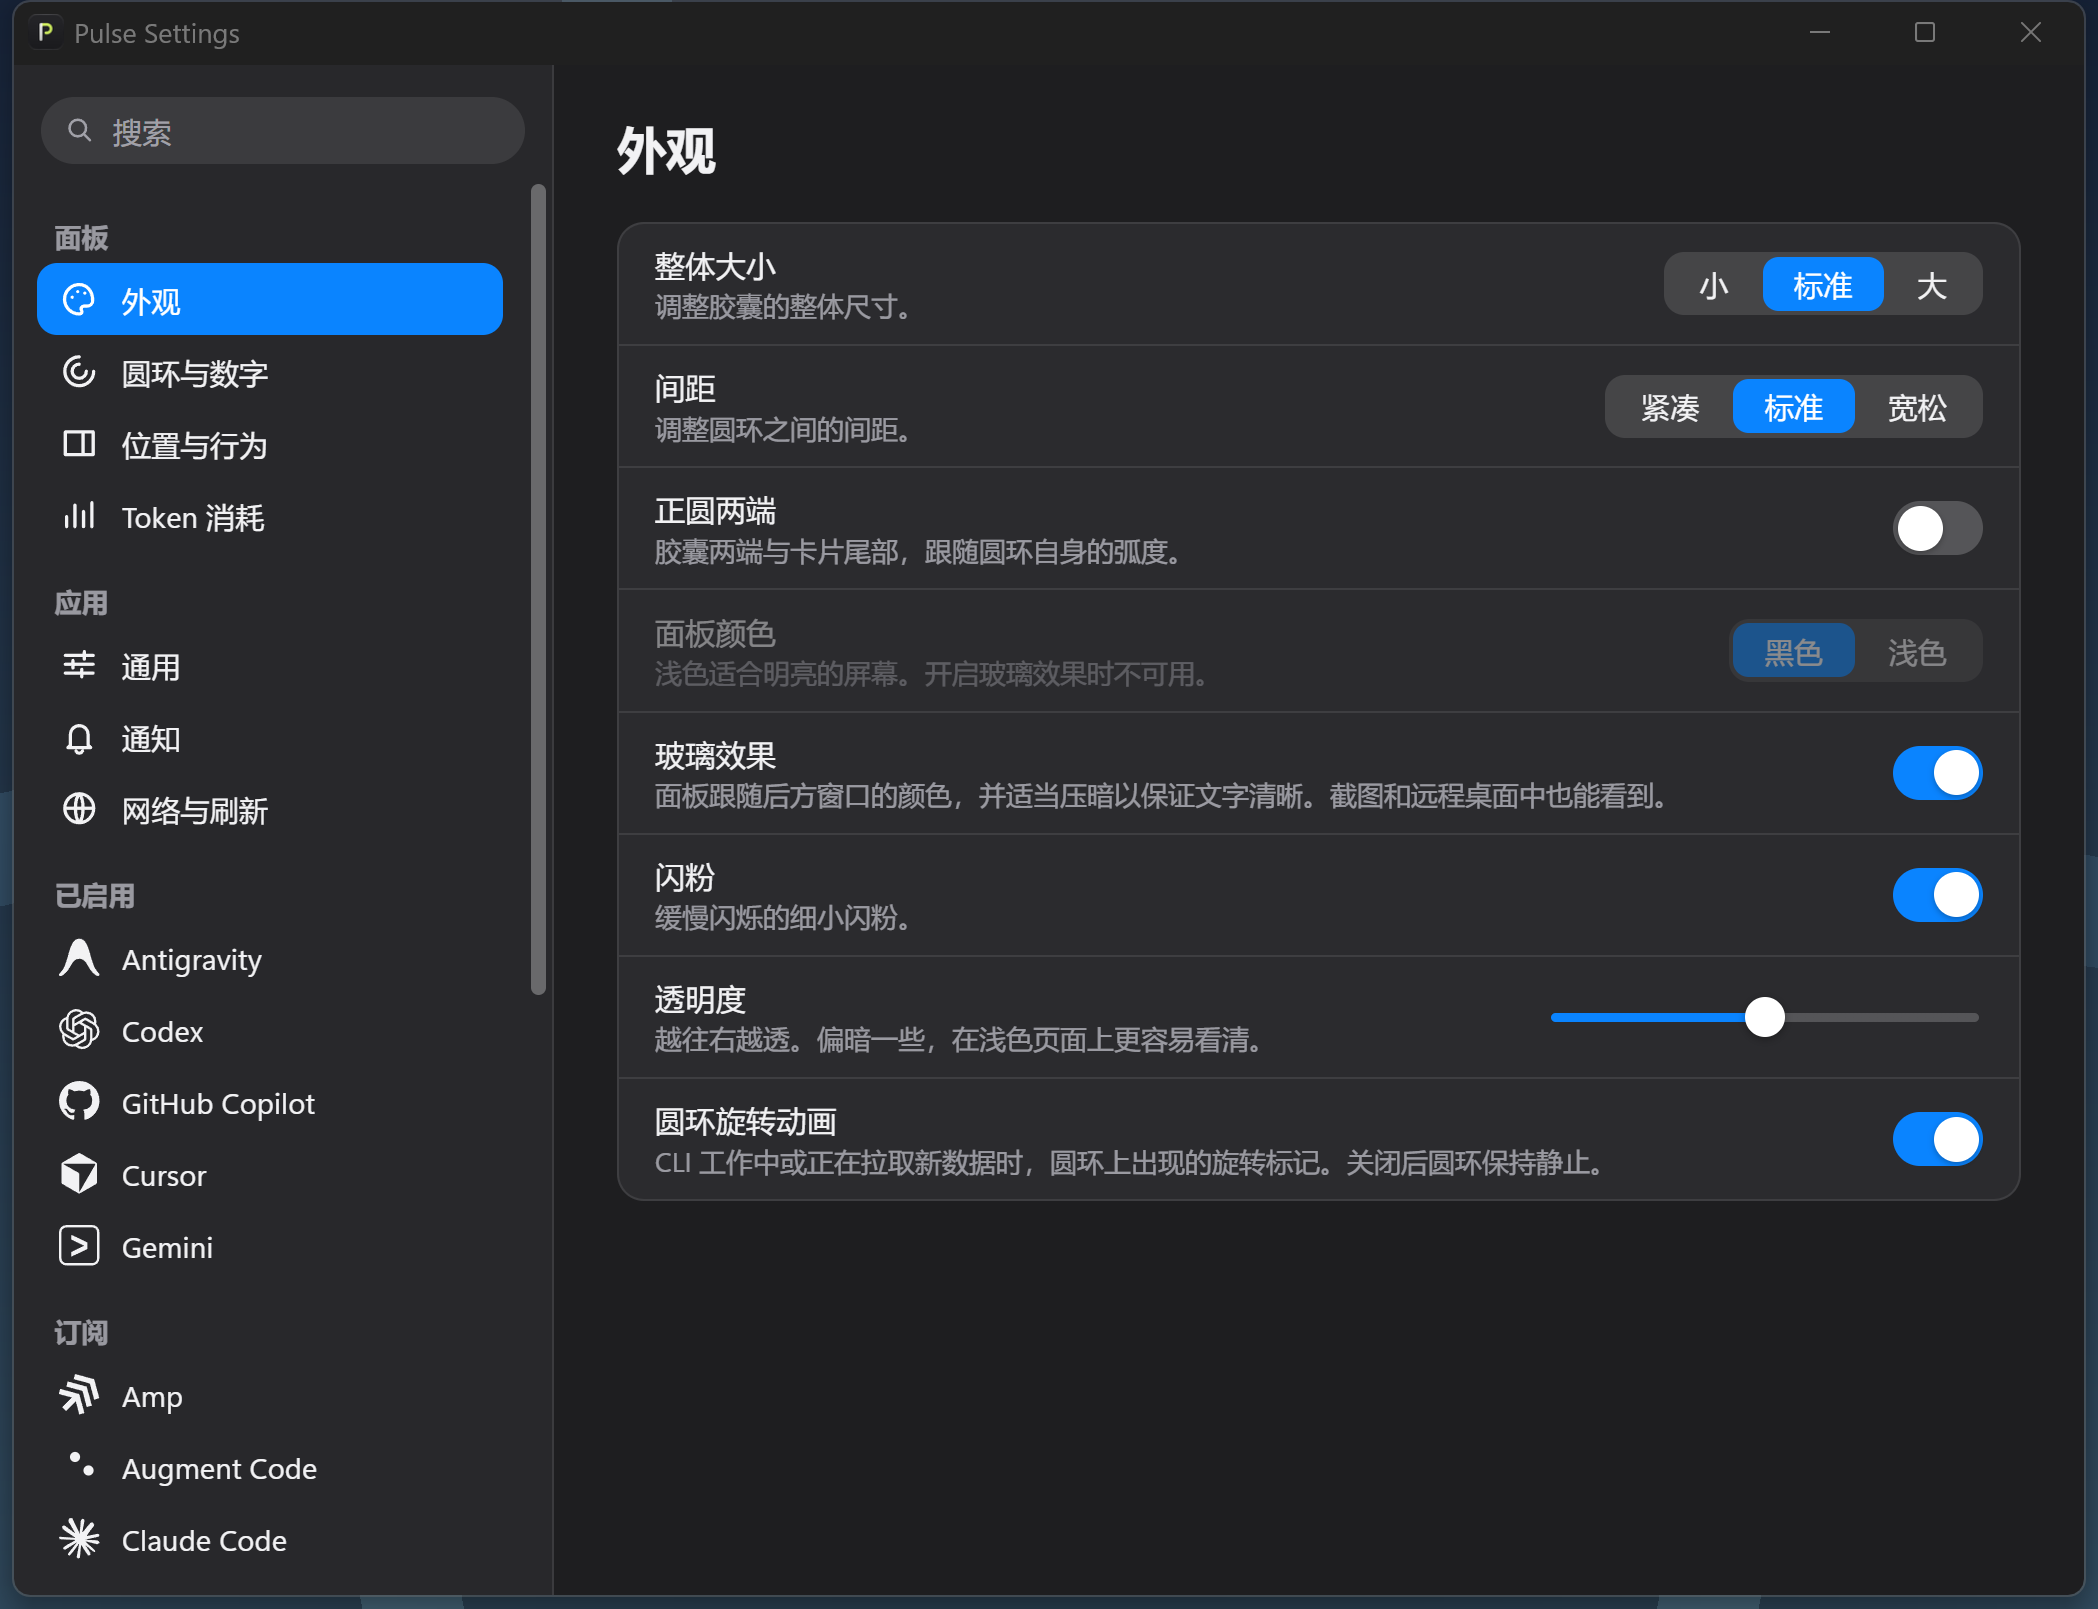
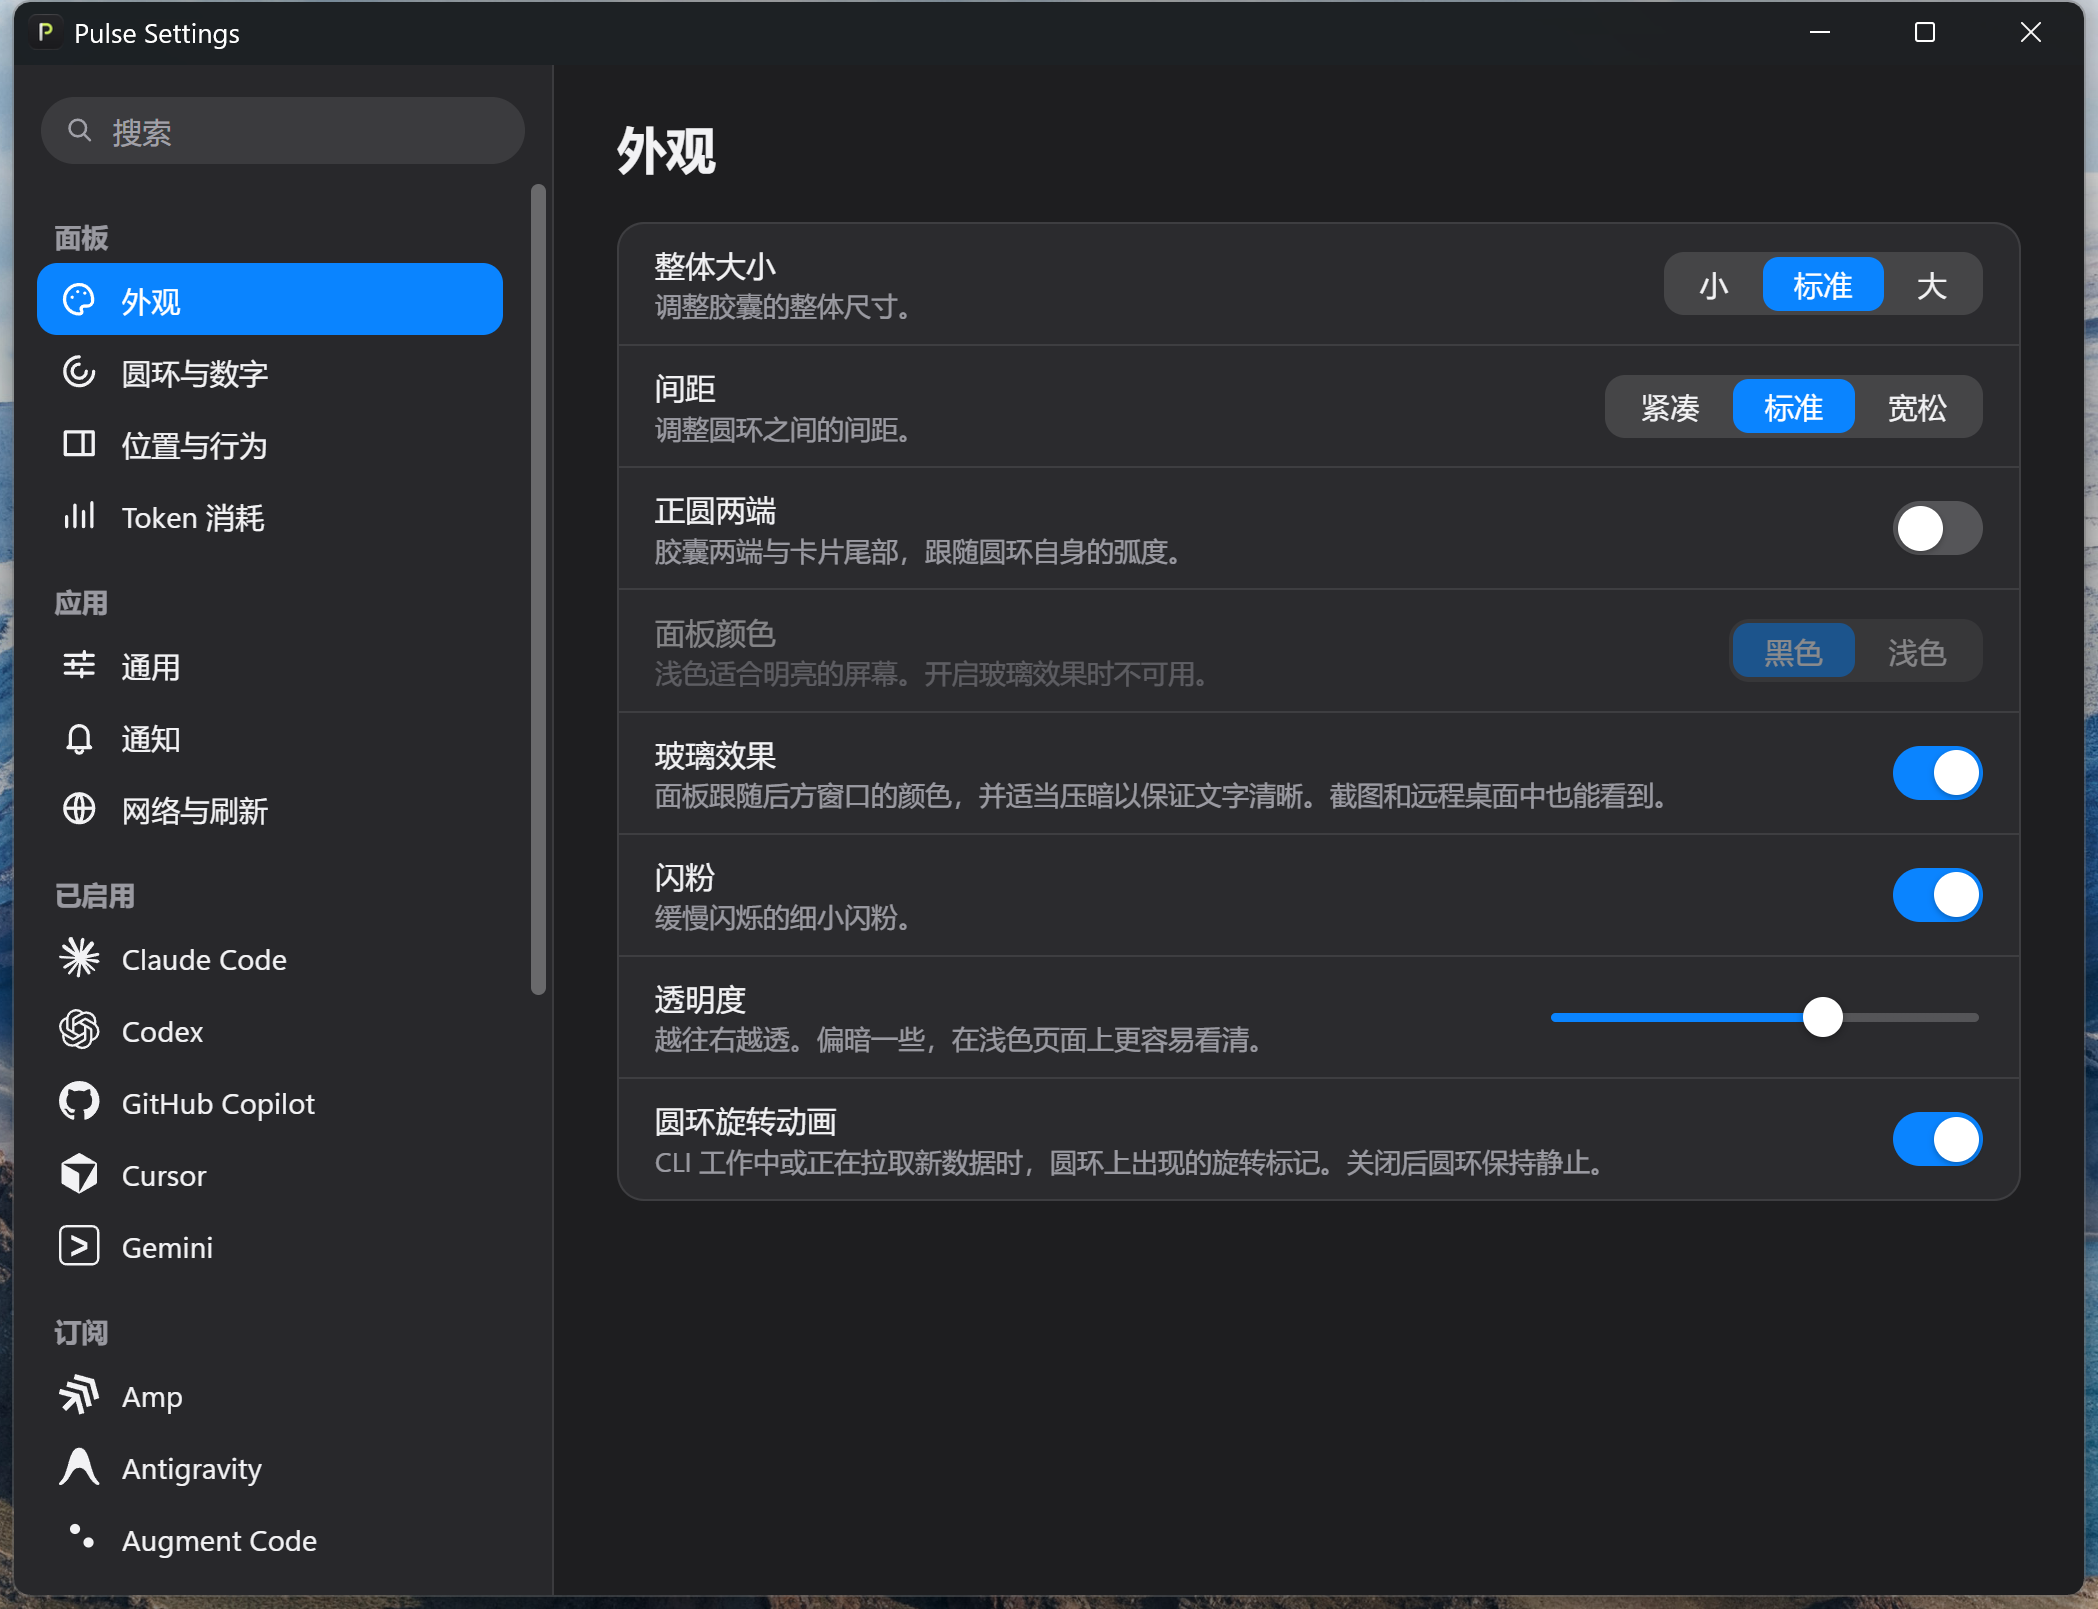
docs: show sidebar glass and detailed usage cards
Capture the Windows docked rail and Claude Code/Codex detailed cards over the current desktop wallpaper. Refresh floating-panel and settings screenshots to use the same wallpaper, and label sample quotas and isolated demonstration token records with varied daily trends.

diff --git a/README.md b/README.md
@@ -60,11 +60,25 @@ Pulse for Windows 是 [qunqin24/Pulse](https://github.com/qunqin24/Pulse) 的 Wi
 
 ## 界面截图
 
-以下为 Windows 版实际运行截图，使用 PULSE_MOCK=1 的内置样例读数，不包含真实账号信息。
+以下为 Windows 版实际运行截图，额度使用 `PULSE_MOCK=1` 的内置样例读数，Token 明细使用隔离目录中的演示会话记录，不包含真实账号信息。背景使用实际桌面壁纸；趋势图为有起伏的演示数据。
 
-<img src="docs/screenshots/windows-panel.png" alt="Windows 版 Pulse 额度面板与详情卡片" width="860" />
+**侧边贴靠与玻璃材质**：额度圆环沿屏幕边缘排列，悬停展开详情卡片。面板与卡片使用 Windows 原生亚克力玻璃，透出并模糊后方桌面；下图关闭闪粉以展示材质本身。
 
-<img src="docs/screenshots/windows-settings.png" alt="Windows 版 Pulse 面板设置与原生标题栏" width="1000" />
+<img src="docs/screenshots/windows-sidebar-glass.png" alt="Windows 版 Pulse 侧边贴靠面板和详情卡片，展示原生亚克力玻璃的透色与模糊" width="680" />
+
+**详细用量卡片**：显示套餐、额度重置时间和本机 Token 统计，包括今日、7 天、31 天用量、每日柱状图、主要模型、缓存命中率及费用估算。
+
+<img src="docs/screenshots/windows-detail-claude.png" alt="Windows 版 Pulse 的 Claude Code 详细用量卡片，展示本机 Token 趋势和缓存命中率" width="680" />
+
+<img src="docs/screenshots/windows-detail-codex.png" alt="Windows 版 Pulse 的 Codex 详细用量卡片，展示额度与本机 Token 明细" width="680" />
+
+**横向浮动面板**：支持切换布局，按需显示百分比和闪粉。
+
+<img src="docs/screenshots/windows-panel.png" alt="Windows 版 Pulse 横向浮动额度面板与详情卡片" width="860" />
+
+**外观设置**：调整大小、间距、玻璃、闪粉和透明度。
+
+<img src="docs/screenshots/windows-settings.png" alt="Windows 版 Pulse 外观设置与原生标题栏" width="1000" />
 
 ## 下载与安装
 
